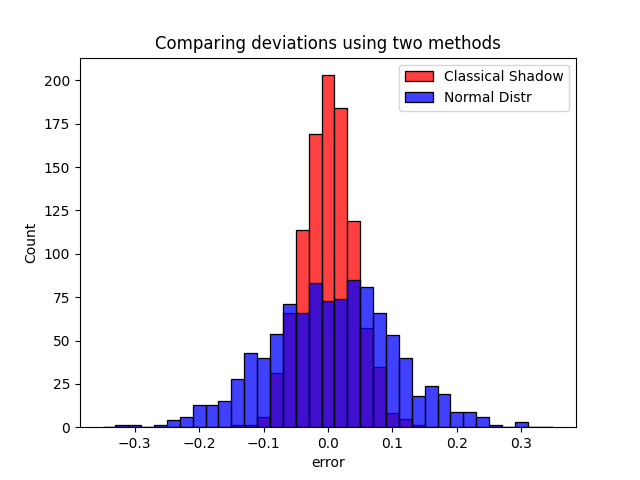
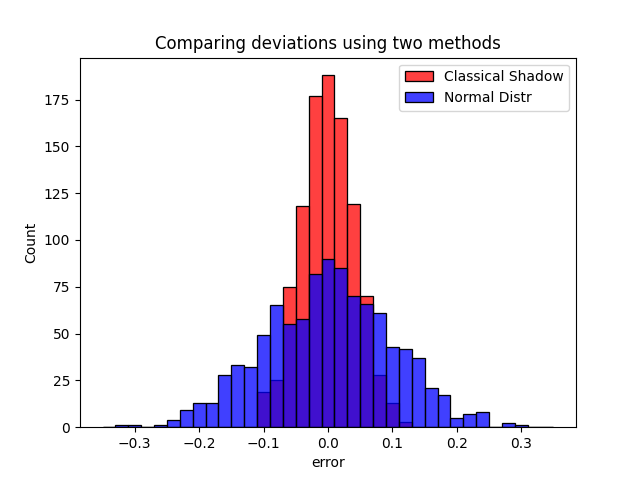
Final QPSQ simulations

diff --git a/simulations/sim_haar.py b/simulations/sim_haar.py
@@ -1,0 +1,84 @@
+#Learning haar-random unitaries for various tolerances
+
+import sys
+
+sys.path.append('../')
+
+from predict import *
+from states import *
+from obs import *
+
+#Unitary to be predicted
+n = 6
+n_reps = 10
+
+unitaries = []
+for i in range(n_reps):
+    unitaries.append(haar_unitary(2**n))
+
+O = pauli_one_obs(n, 0)
+o_str = 'z1'
+print('O =', o_str)
+
+#Target state distribution
+size_D = 100
+
+D_classical = classical_states(n)
+D_pauli = pauli_product_states(size_D,n)
+D_haar = haar_states(size_D,n)
+
+D = [D_classical,D_pauli,D_haar]
+d_str = ['comp','stab','haar']
+
+eps = 0.9
+tolerance = np.array([0.01, 0.05, 0.1, 0.15, 0.2, 0.25])
+step = 50
+N_min = 50
+N_max = 1000
+samples = range(N_min,N_max+1,step)
+
+for d_iter in range(len(D)):
+    data = np.zeros((len(tolerance),len(samples)))
+    for t_iter in range(len(tolerance)):
+        tau = tolerance[t_iter]
+        #print('SQ, tau = ', tau)
+        for N_iter in range(len(samples)):
+            N = samples[N_iter]
+            error = 0.0
+            for u_iter in range(len(unitaries)):
+                U = unitaries[u_iter]
+                x = learn(U,O,N,n,eps, flag = 1, tau = tau)
+                for rho in D[d_iter]:
+                    pred_val = pred(x,rho)
+                    # print('Predicted value:',pred_val)
+
+                    true_val = true_value(O,U,rho)
+                    # print('True value:',true_val)
+                       
+                    error += (true_val-pred_val)**2
+            error /= (n_reps*len(D[d_iter]))
+            print("Distribution = ", d_str[d_iter],", N = ",N,", tau = ",tau ,", n = ",n,", error = ",error)
+            data[t_iter,N_iter] = error 
+    filename = "haar-unitaries"+"_"+d_str[d_iter]+"_eps"+str(eps)+"_reps"+str(n_reps)+"_"+o_str+"_n"+str(n)+"_N"+str(N_min)+"-"+str(N_max)
+    np.save(filename,data)
+
+
+
+# print('Classical Shadow')
+# for u in range(len(unitaries)):
+#     U = unitaries[u]
+#     for d in range(len(D)):
+#         for N in range(N_min,N_max+1,step):
+#             error = 0.0
+#             for i in range(num_shots):
+#                 x = learn(U,O,N,n,eps)
+#                 for rho in D[d]:
+#                     pred_val = pred(x,rho)
+#                     # print('Predicted value:',pred_val)
+
+#                     true_val = true_value(O,U,rho)
+#                     # print('True value:',true_val)
+                    
+#                     error += (true_val-pred_val)**2
+#             error /= (num_shots*len(D[d]))
+#             print("Unitary = ", u_str[u],", Distribution = ", distr[d],", N = ",N,", n = ",n,", error = ",error)

diff --git a/simulations/plot_haar.py b/simulations/plot_haar.py
@@ -1,0 +1,56 @@
+import numpy as np 
+import matplotlib.pyplot as plt
+
+d_str = ['comp','stab','haar']
+o_str = 'z1'
+
+n = 6
+eps = 0.9
+tolerance = np.array([0.01, 0.05, 0.1, 0.15, 0.2, 0.25])
+step = 50
+N_min = 50
+N_max = 1000
+samples = range(N_min,N_max+1,step)
+n_reps = 10
+
+suffix = "_eps"+str(eps)+"_reps"+str(n_reps)+"_"+o_str+"_n"+str(n)+"_N"+str(N_min)+"-"+str(N_max)+".npy"
+data0 = np.load("haar-unitaries"+"_"+d_str[0]+suffix)
+data1 = np.load("haar-unitaries"+"_"+d_str[1]+suffix)
+data2 = np.load("haar-unitaries"+"_"+d_str[2]+suffix)
+
+# plt.plot(samples,data0[1], label = 'Target states: '+d_str[0])
+# plt.plot(samples,data1[1], label = 'Target states: '+d_str[1])
+# plt.plot(samples,data2[1], label = 'Target states: '+d_str[2])
+
+# plt.xlabel('Number of samples')
+# plt.ylabel('SSE')
+# plt.title('SQ Learning Error for Haar-random Unitary, tau = '+str(tolerance[1])+',eps ='+str(eps)+',n ='+str(n))
+# plt.legend(loc = 'upper right')
+# plt.show()
+
+for i in [1,3,5]:
+    plt.plot(samples[0:10],data0[i][0:10], label = 'Tolerance: '+str(tolerance[i]))
+
+plt.xlabel('Number of queries')
+plt.ylabel('Error')
+plt.title('Learning error for haar-random unitaries, Distr = '+d_str[0]+',n ='+str(n))
+plt.legend(loc = 'upper right')
+plt.show()
+
+for i in [1,3,5]:
+    plt.plot(samples[0:10],data1[i][0:10], label = 'Tolerance: '+str(tolerance[i]))
+
+plt.xlabel('Number of queries')
+plt.ylabel('Error')
+plt.title('Learning error for haar-random unitaries, Distr = '+d_str[1]+',n ='+str(n))
+plt.legend(loc = 'upper right')
+plt.show()
+
+for i in [1,3,5]:
+    plt.plot(samples[0:10],data2[i][0:10], label = 'Tolerance: '+str(tolerance[i]))
+
+plt.xlabel('Number of queries')
+plt.ylabel('Error')
+plt.title('Learning error for haar-random unitaries, Distr = '+d_str[2]+',n ='+str(n))
+plt.legend(loc = 'upper right')
+plt.show()

diff --git a/dataset.py b/dataset.py
@@ -86,7 +86,7 @@ This function computes trace(O(U * rho * U^dag))
 
 return: {alpha_i}_{i=1}^N
 '''
-def q_statistical_query(U,O,input_states,N,tau, num_samples):
+def q_statistical_query(U,O,input_states,N,tau):
     alpha = np.zeros(N, dtype = float)
     # output_states = []
     N = len(input_states)
@@ -108,8 +108,7 @@ def q_statistical_query(U,O,input_states,N,tau, num_samples):
                 obs = np.kron(obs,pauli_obs[int(P[ind])])
             exp_i+= coeff*np.trace(obs@output_i).real
 
-        root_samples = np.sqrt(num_samples)
-        dev = np.random.normal(0, tau/2*root_samples, 1)[0]/root_samples  #By choosing std deviation root_samples*tau/2 and then normalizing, 95.45% of deviations will be between -tau and +tau
+        dev = np.random.normal(0, tau/2, 1)[0]  #By choosing std deviation tau/2, 95.45% of deviations will be between -tau and +tau
         alpha[i] = exp_i+dev
         # print(input_states[i], exp_i, alpha[i])
 

diff --git a/simulations/obs_error.py b/simulations/obs_error.py
@@ -1,6 +1,9 @@
 #Plot errors in two methods of constructing QSQ oracles
 #1 - Classical shadows for measuring observables
 #2 - Norally distributed error
+import sys
+
+sys.path.append('../')
 
 from coeff import *
 import seaborn as sns
@@ -60,7 +63,7 @@ root_samples = np.sqrt(num_samples)
 
 
 D1 = classical_shadow_error(n, num_samples, U, O, N)
-D2 = np.random.normal(0, tau/2*root_samples, N)/root_samples
+D2 = np.random.normal(0, tau/2, N)
 
 
 

diff --git a/coeff.py b/coeff.py
@@ -112,7 +112,7 @@ def hyperparams(eps,O,n):
 
 def learn(U,O,N,n,eps, construct_data = True, inp = None, out = None, flag = 0, tau = 0):
     k,eps_tilde = hyperparams(eps,O,n)
-    # print(k,eps_tilde)
+    # print('k,eps_tilde=',k,eps_tilde)
     # eps_tilde = 0
 
     if flag == 0:
